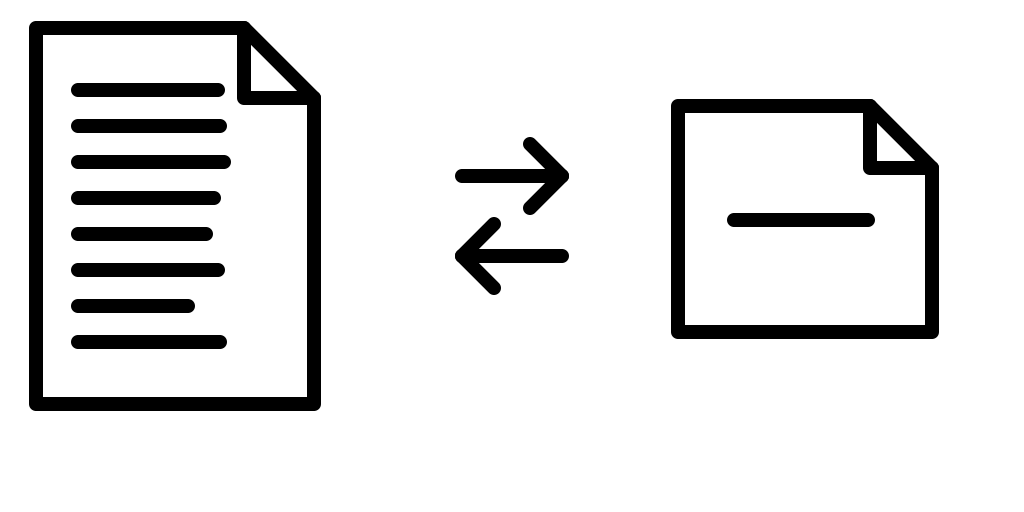
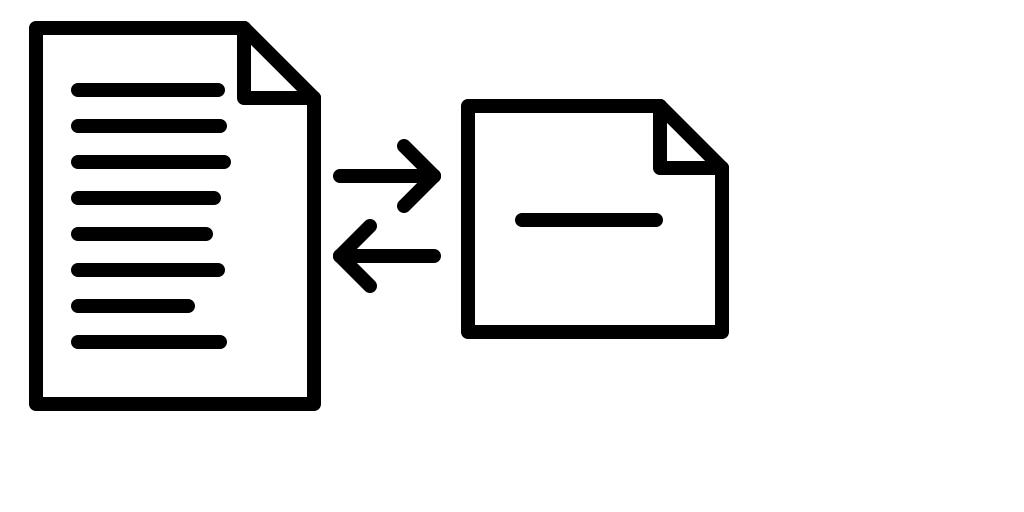
Product: Design and content of Pricing and other styling adjustments

Changed region(s): [[0.3125, 0.1875, 0.9375, 0.6875]]

diff --git a/dataland-website/src/data/product.ts b/dataland-website/src/data/product.ts
@@ -108,8 +108,8 @@ export const USE_CASES: UseCase[] = [
   {
     icon: '/static/images/use_cases/img_use_case_format_update.png',
     tags: ['EU Taxonomy', 'Template continuity'],
-    title: 'EU Taxonomy Template Updates and Format Continuity',
-    titleLines: ['EU Taxonomy Template Updates', 'and Format Continuity'],
+    title: 'EU Taxonomy Format Continuity',
+    titleLines: ['EU Taxonomy Format', 'Continuity'],
     description:
       'Provision of EU Taxonomy datasets in both current and previous template formats, including automated format conversion. Ensures continuity in internal reporting processes when regulatory templates change.',
   },
@@ -119,39 +119,39 @@ export const USE_CASES: UseCase[] = [
 
 export interface FeatureCard {
   title: string;
-  subtitle: string;
+  tags: string[];
   text: string;
 }
 
 export const FEATURE_CARDS: FeatureCard[] = [
   {
     title: 'Download data',
-    subtitle: 'Flexible formats',
+    tags: ['Flexible formats', 'Internal use'],
     text: 'Download datasets as CSV or XLSX with or without metadata',
   },
   {
     title: 'Portfolio management',
-    subtitle: 'Create and manage portfolios',
+    tags: ['Portfolio setup', 'Monitoring'],
     text: 'Build your own portfolios of companies and monitor ESG data availability',
   },
   {
     title: 'Portfolio sharing',
-    subtitle: 'Collaboration',
+    tags: ['Collaboration', 'Team access'],
     text: 'Share company portfolios with colleagues and teams',
   },
   {
     title: 'Request data',
-    subtitle: 'On-demand sourcing',
+    tags: ['On-demand sourcing', 'Missing data'],
     text: 'Order missing datasets directly from the platform',
   },
   {
     title: 'Source transparency',
-    subtitle: 'Traceability',
+    tags: ['Traceability', 'Quality comments'],
     text: 'Inspect original source documents and quality comments',
   },
   {
     title: 'Multi-framework export',
-    subtitle: 'Reporting-ready formats',
+    tags: ['Reporting-ready formats', 'Framework coverage'],
     text: 'Export datasets in formats suitable for different reporting frameworks',
   },
 ];